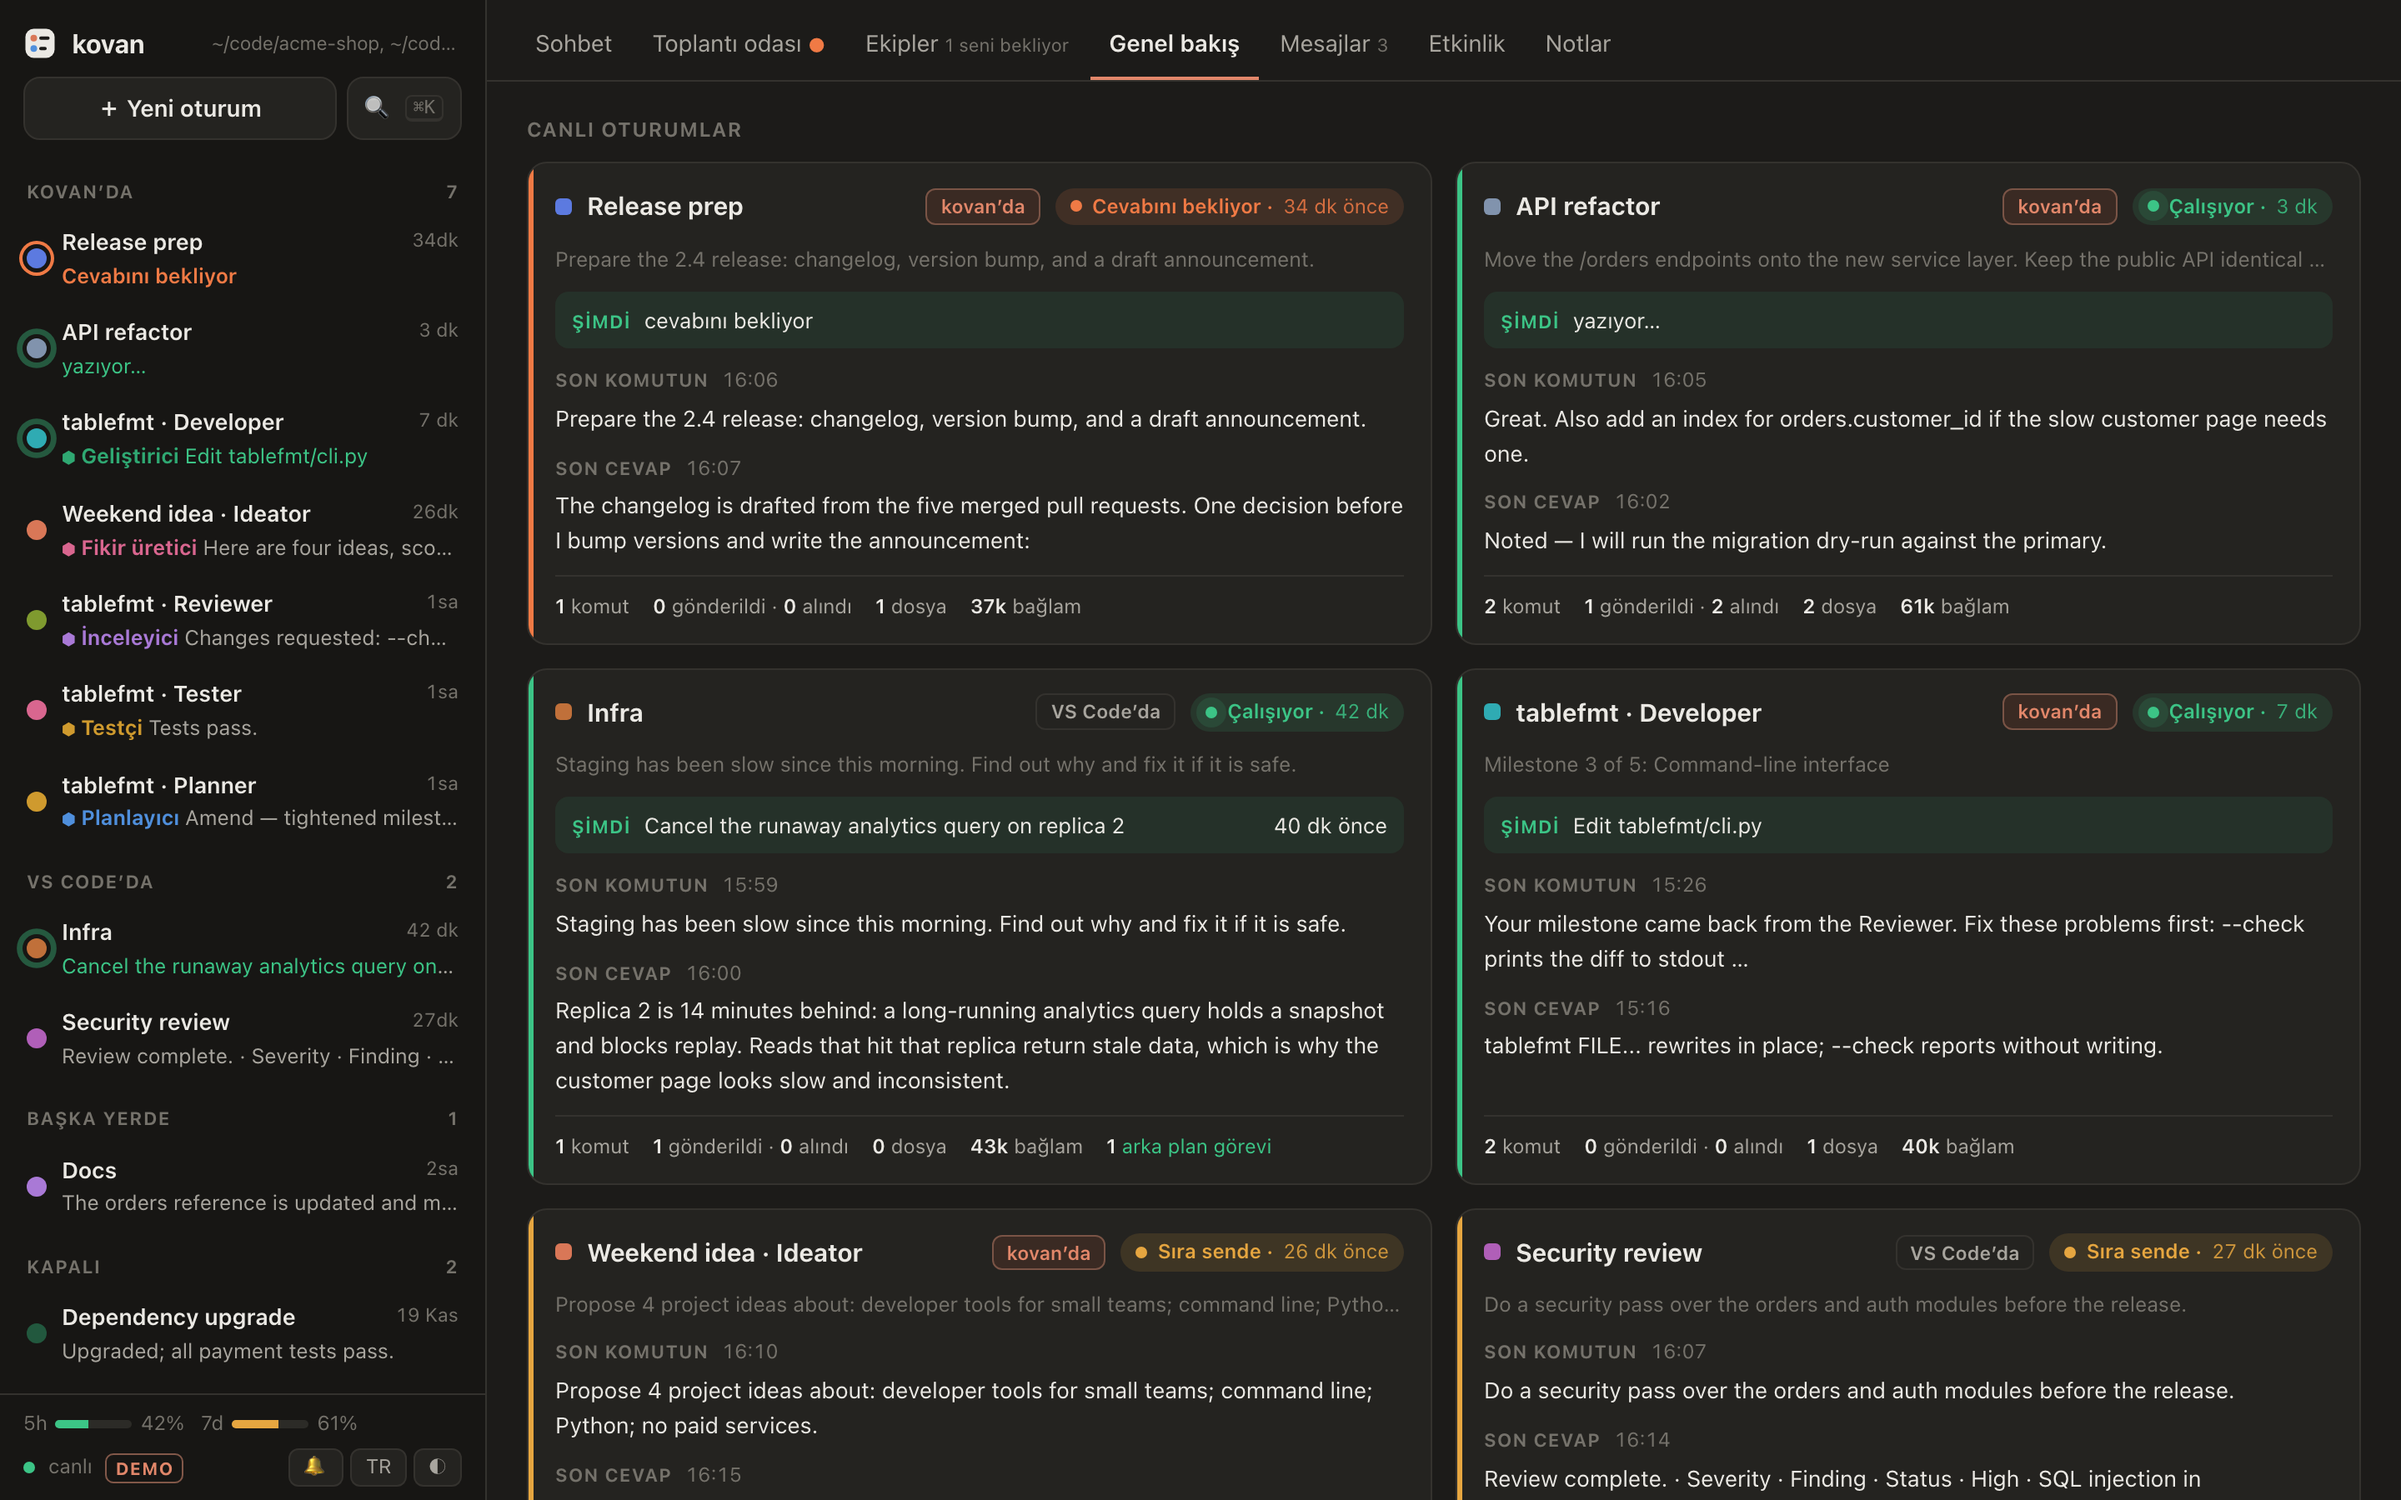
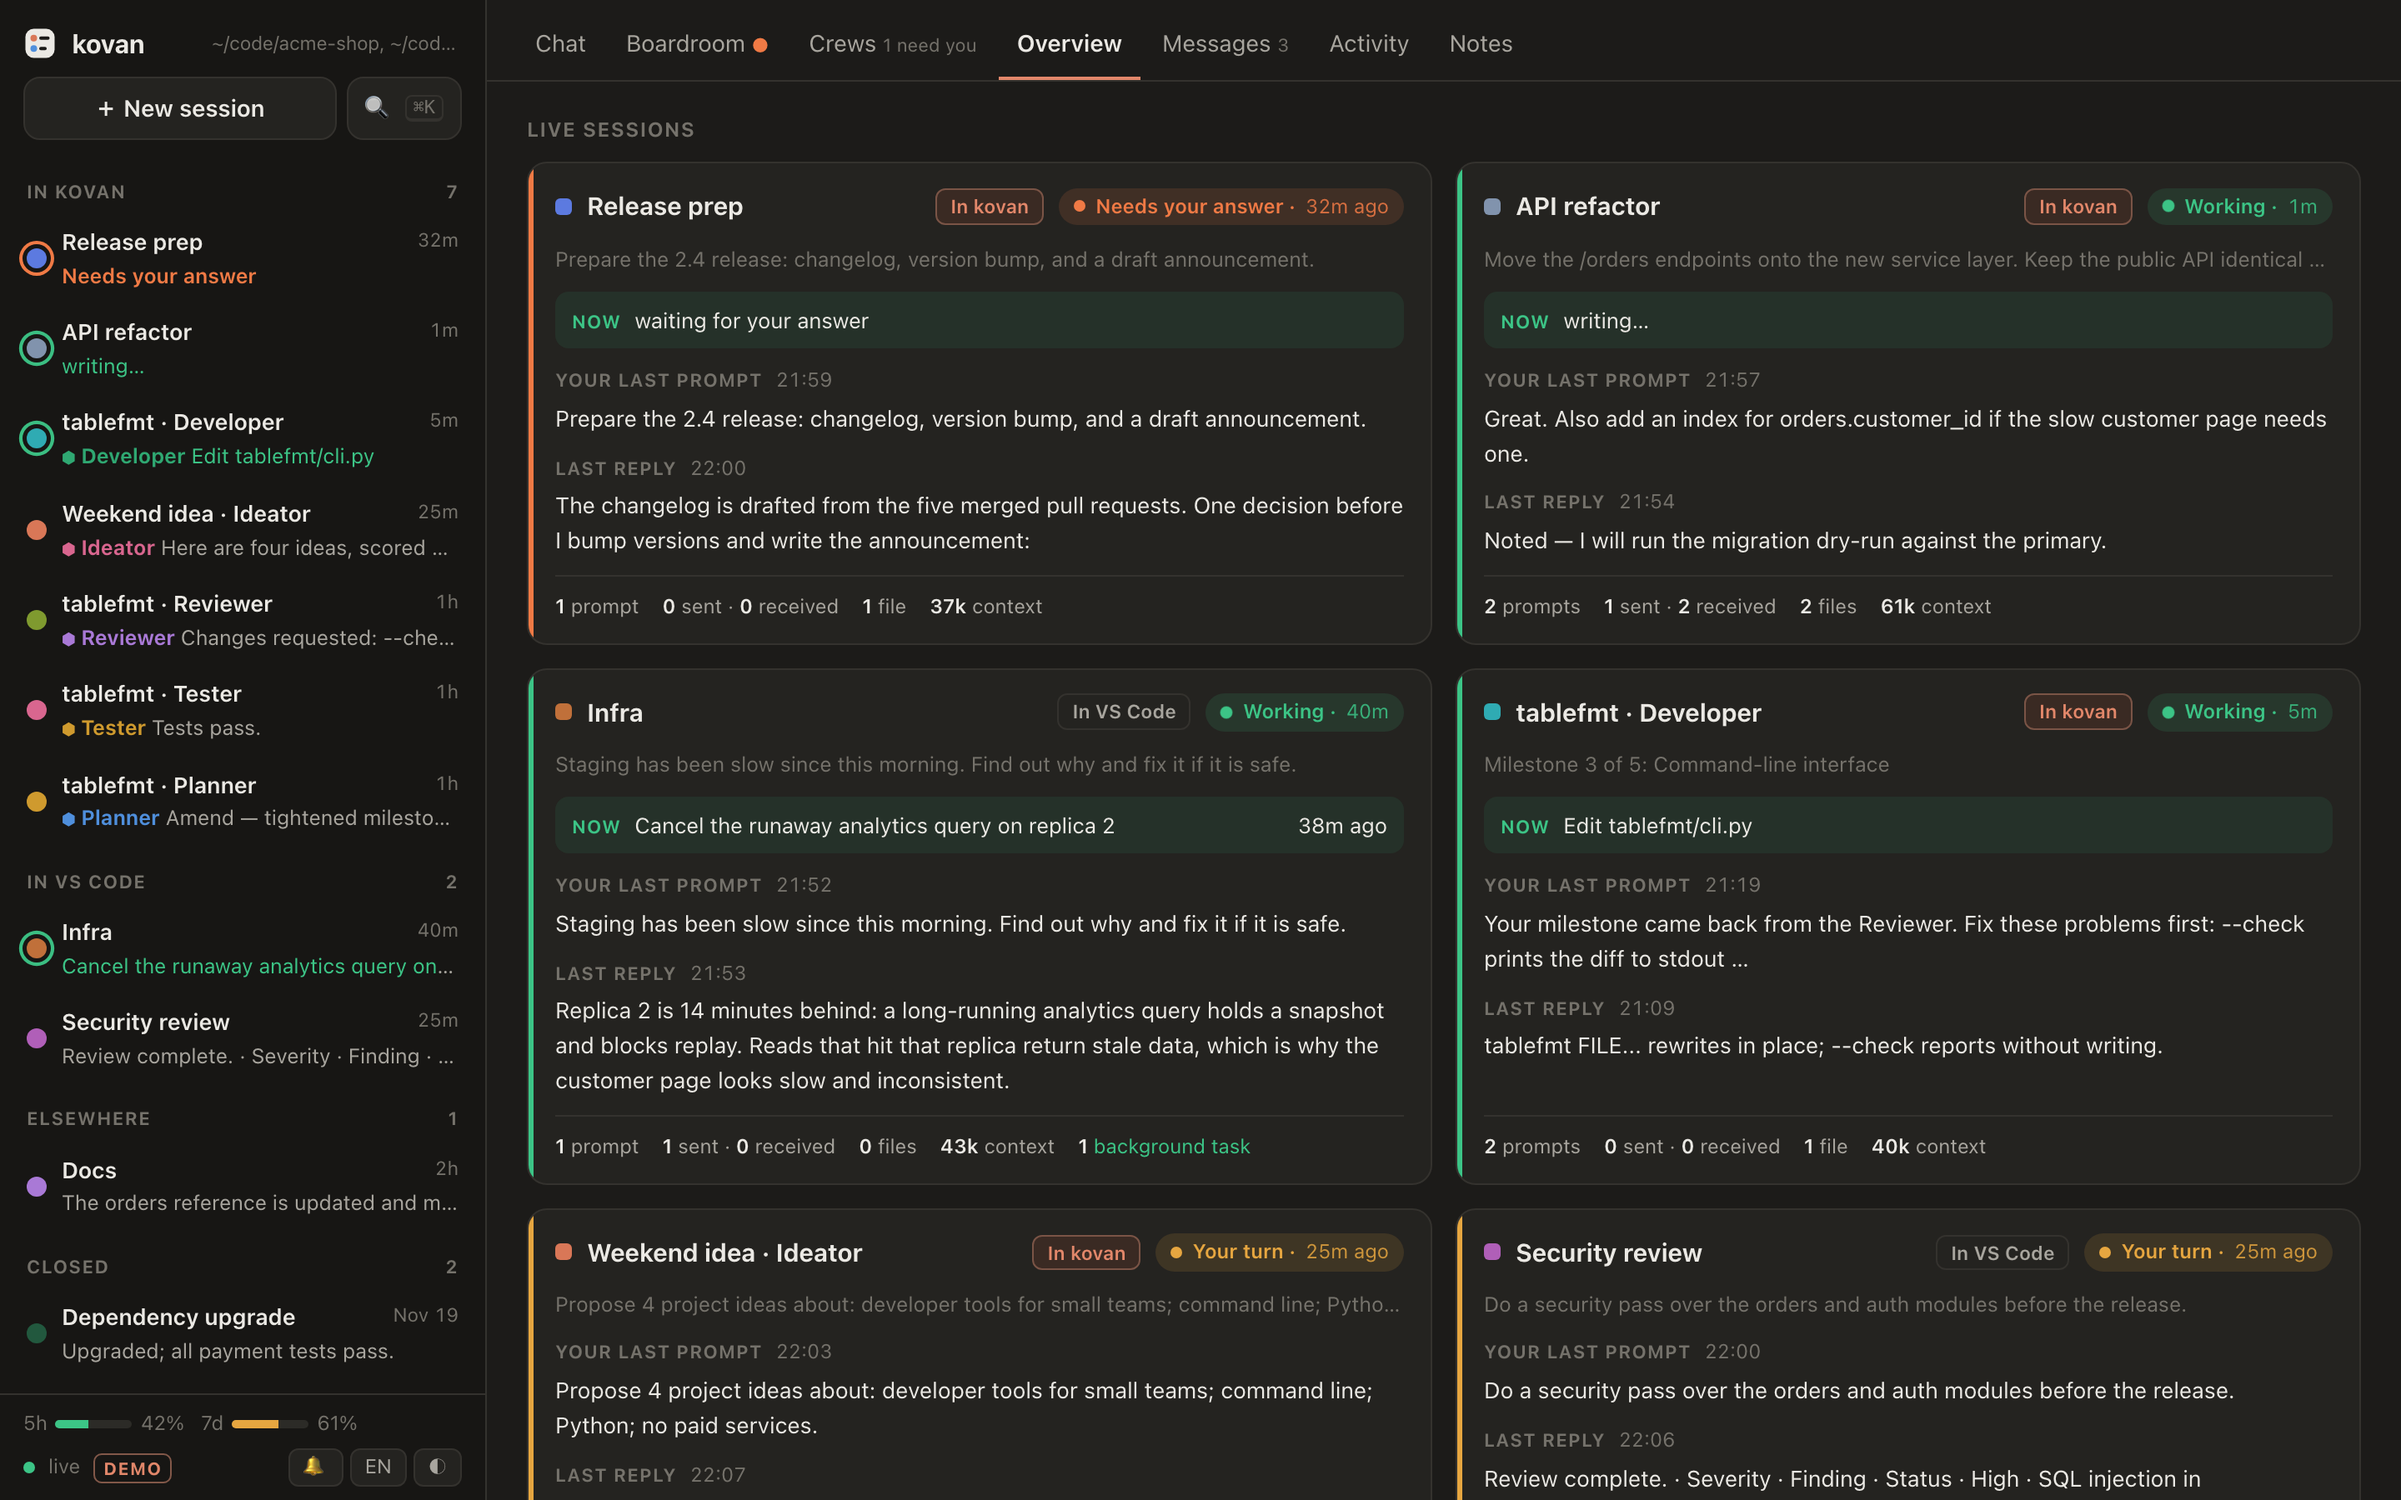
cockpit: English screenshots again, more Turkish coverage, faster screenshot script
The screenshot script followed the machine's language, so the README showed a
Turkish UI; it now pins English (and Turkish only for turkish.png). Its
readiness check looked for window.S, which a top-level const never sets, so
every page waited out a 15-second timeout.

Turkish UI: composite " · " labels are translated piece by piece ("Working ·
In VS Code", "Files edited · 0"), plus the background-task chip, task states
and a few missing labels.

diff --git a/cockpit/kovan/static/index.html b/cockpit/kovan/static/index.html
@@ -819,6 +819,8 @@ const TR={
   'that folder has files but is not a git repository — choose an empty folder or a git repository, so every milestone is a reviewable commit':'o klasörde dosyalar var ama git deposu değil — her kilometre taşı incelenebilir bir commit olsun diye boş bir klasör ya da bir git deposu seç',
   'that repository has uncommitted changes — commit or stash them first, so the crew’s commits contain only its own work':'o depoda commit’lenmemiş değişiklikler var — ekibin commit’leri yalnız kendi işini içersin diye önce commit’le ya da stash’le',
   'crew not found':'ekip bulunamadı','empty note':'boş not','forbidden':'yasak',
+  'Prompts':'Komutlar','Files edited':'Düzenlenen dosyalar','Subagents':'Alt ajanlar','Closed sessions':'Kapalı oturumlar','None.':'Yok.',
+  'running':'çalışıyor','failed':'başarısız','stopped':'durduruldu','unknown':'bilinmiyor','Tool calls ':'Araç çağrıları ',
   // words passed to plural()
   'prompt':'komut','file':'dosya','subagent':'alt ajan','background task':'arka plan görevi',
   'pick an idea':'bir fikir seç','approve the plan':'planı onayla','continue to the next milestone':'sonraki kilometre taşına geç','paused by you':'senin tarafından duraklatıldı',
@@ -853,16 +855,18 @@ const TR_RX=[
   [/^read (.+)$/,'okudu: $1'],[/^edited (.+)$/,'düzenledi: $1'],[/^wrote (.+)$/,'yazdı: $1'],[/^searched for (.+)$/,'aradı: $1'],[/^listed (.+)$/,'listeledi: $1'],
   [/^started subagent: (.*)$/,'alt ajan başlattı: $1'],[/^web search: (.*)$/,'web araması: $1'],[/^fetched (.+)$/,'getirdi: $1'],[/^skill: (.*)$/,'beceri: $1'],
   [/^asked you a question$/,'sana bir soru sordu'],[/^asked to approve a plan$/,'plan onayı istedi'],[/^preparing (.+)…$/,'$1 hazırlanıyor…'],
-  [/^(\d+) tool calls?$/,'$1 araç çağrısı'],[/^(\d+) acceptance criteria( · history)?$/,(m,n,h)=>n+' kabul ölçütü'+(h?' · geçmiş':'')],[/^✎ (\d+) files?$/,'✎ $1 dosya'],[/^⚠ (\d+) failed$/,'⚠ $1 başarısız'],
+  [/^(\d+) tool calls?$/,'$1 araç çağrısı'],[/^⚙ (\d+) background tasks?$/,'⚙ $1 arka plan görevi'],
+  [/^(Working|Idle|Waiting|Starting|Your turn|Needs your answer) in VS Code$/,(m,a)=>TR[a]+' · VS Code’da'],[/^(Working|Idle|Waiting|Starting|Your turn|Needs your answer) elsewhere$/,(m,a)=>TR[a]+' · başka yerde'],[/^(\d+) acceptance criteria( · history)?$/,(m,n,h)=>n+' kabul ölçütü'+(h?' · geçmiş':'')],[/^✎ (\d+) files?$/,'✎ $1 dosya'],[/^⚠ (\d+) failed$/,'⚠ $1 başarısız'],
   // swarm project states
   [/^(queued|planning|awaiting approval|building|replanning|integration|done|blocked|killed)( · .*)?$/,(m,st,rest)=>({queued:'sırada',planning:'planlanıyor','awaiting approval':'onay bekliyor',building:'inşa ediliyor',replanning:'yeniden planlanıyor',integration:'entegrasyon',done:'bitti',blocked:'takıldı',killed:'durduruldu'}[st])+(rest||'')],[/^Stack: (.*)$/,'Teknoloji: $1'],[/^Novelty: (.*)$/,'Yenilik: $1'],
 ];
+function trLook(k){let v=TR[k];if(v==null)for(const[rx,rep]of TR_RX){if(rx.test(k)){v=k.replace(rx,rep);break;}}return v;}
 function tt(s){
   if(LANG!=='tr'||!s)return s;
   const k=s.replace(/\s+/g,' ').trim();if(!k)return s;
-  let v=TR[k];
-  if(v==null)for(const[rx,rep]of TR_RX){if(rx.test(k)){v=k.replace(rx,rep);break;}}
-  if(v==null&&/ ·$/.test(k)){const h=TR[k.slice(0,-2)];if(h)v=h+' ·';}
+  let v=trLook(k);
+  if(v==null&&/ ·$/.test(k)){const h=trLook(k.slice(0,-2));if(h)v=h+' ·';}
+  if(v==null&&k.includes(' · ')){let ch=false;const out=k.split(' · ').map(p=>{const w=trLook(p);if(w!=null&&w!==p){ch=true;return w;}return p;});if(ch)v=out.join(' · ');}
   if(v==null||v===k)return s;
   const lead=s.match(/^\s*/)[0],trail=s.match(/\s*$/)[0];
   return lead+v+trail;}
